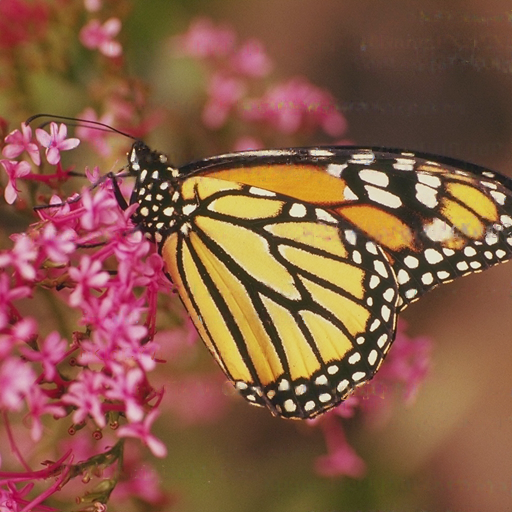
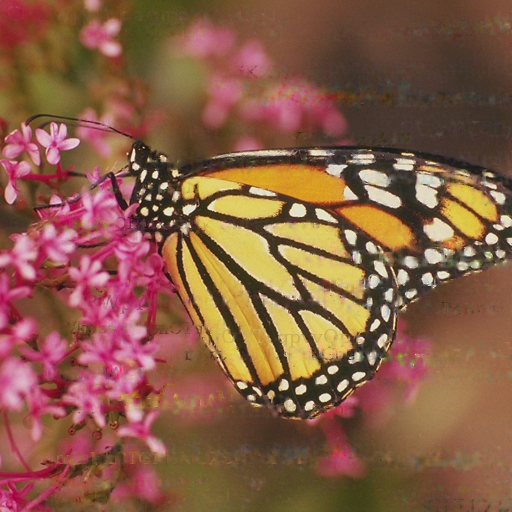
Added all images and fixed random seed for text

diff --git a/src/datasets.py b/src/datasets.py
@@ -11,7 +11,7 @@ from utils import load_hdr_as_tensor
 import os
 from sys import platform
 import numpy as np
-from random import choice
+import random
 from string import ascii_letters
 from PIL import Image, ImageFont, ImageDraw
 import OpenEXR
@@ -167,6 +167,7 @@ class NoisyDataset(AbstractDataset):
 
         # Random occupancy in range [0, p]
         if self.seed:
+            random.seed(self.seed)
             max_occupancy = self.noise_param
         else:
             max_occupancy = np.random.uniform(0, self.noise_param)
@@ -178,7 +179,7 @@ class NoisyDataset(AbstractDataset):
         while 1:
             font = ImageFont.truetype(serif, np.random.randint(16, 21))
             length = np.random.randint(10, 25)
-            chars = ''.join(choice(ascii_letters) for i in range(length))
+            chars = ''.join(random.choice(ascii_letters) for i in range(length))
             color = tuple(np.random.randint(0, 255, c))
             pos = (np.random.randint(0, w), np.random.randint(0, h))
             text_draw.text(pos, chars, color, font=font)

diff --git a/ReadMe.md b/ReadMe.md
@@ -109,7 +109,7 @@ See `python3 test.py --h` for list of optional arguments, or `examples/test.sh` 
 
 ## Results
 
-Model was only trained for 100 epochs with a train/valid split of 2000/400 on a GTX 780. I will upload the results for text trained with clean targets soon; text overlay takes time to train since the text adding routine is expensive.
+Gaussian model was trained for 100 epochs with a train/valid split of 2000/400. Text model was trained with 1000/200 due to the overhead introduced when corrupting with text. Both models were trained on an old NVIDIA GTX 780.
 
 
 <table align="center">
@@ -125,7 +125,7 @@ Model was only trained for 100 epochs with a train/valid split of 2000/400 on a 
   <tr align="center">
     <td colspan=2><img src="figures/lenna-gaussian-noisy.png"></td>
     <td colspan=2><img src="figures/lenna-gaussian-denoised.png"></td>
-    <td colspan=2><img src="figures/lenna-gaussian-clean-denoised.png"></td>
+    <td colspan=2><img src="figures/lenna-gaussian-clean.png"></td>
     <td colspan=2><img src="figures/lenna.png"></td>
   </tr>  
   <tr align="center">
@@ -137,7 +137,7 @@ Model was only trained for 100 epochs with a train/valid split of 2000/400 on a 
   <tr align="center">
     <td colspan=2><img src="figures/monarch-gaussian-noisy.png"></td>
     <td colspan=2><img src="figures/monarch-gaussian-denoised.png"></td>
-    <td colspan=2><img src="figures/monarch-gaussian-clean-denoised.png"></td>
+    <td colspan=2><img src="figures/monarch-gaussian-clean.png"></td>
     <td colspan=2><img src="figures/monarch.png"></td>
   </tr> 
 
@@ -145,27 +145,27 @@ Model was only trained for 100 epochs with a train/valid split of 2000/400 on a 
     <th colspan=9>Text overlay (<i>p</i> = 0.25)</td>
   </tr>
   <tr align="center">
-  <td colspan=2>Noisy input (20.28 dB)</td>
-  <td colspan=2>Denoised (33.71 dB)</td>
-  <td colspan=2>Clean targets (? dB)</td>
+  <td colspan=2>Noisy input (15.21 dB)</td>
+  <td colspan=2>Denoised (27.79 dB)</td>
+  <td colspan=2>Clean targets (27.72 dB)</td>
   <td colspan=2>Ground truth</td>
   </tr>
   <tr align="center">
     <td colspan=2><img src="figures/lenna-text-noisy.png"></td>
     <td colspan=2><img src="figures/lenna-text-denoised.png"></td>
-    <td colspan=2><img src="figures/lenna-text-clean-denoised.png"></td>
+    <td colspan=2><img src="figures/lenna-text-clean.png"></td>
     <td colspan=2><img src="figures/lenna.png"></td>
   </tr>  
   <tr align="center">
-    <td colspan=2>Noisy input (19.43 dB)</td>
-    <td colspan=2>Denoised (33.40 dB)</td>
-  <td colspan=2>Clean targets (? dB)</td>
+    <td colspan=2>Noisy input (15.07 dB)</td>
+    <td colspan=2>Denoised (28.10 dB)</td>
+    <td colspan=2>Clean targets (27.79 dB)</td>
     <td colspan=2>Ground truth</td>
   </tr>
   <tr align="center">
     <td colspan=2><img src="figures/monarch-text-noisy.png"></td>
     <td colspan=2><img src="figures/monarch-text-denoised.png"></td>
-    <td colspan=2><img src="figures/monarch-text-clean-denoised.png"></td>
+    <td colspan=2><img src="figures/monarch-text-clean.png"></td>
     <td colspan=2><img src="figures/monarch.png"></td>
   </tr>  
 </table>
